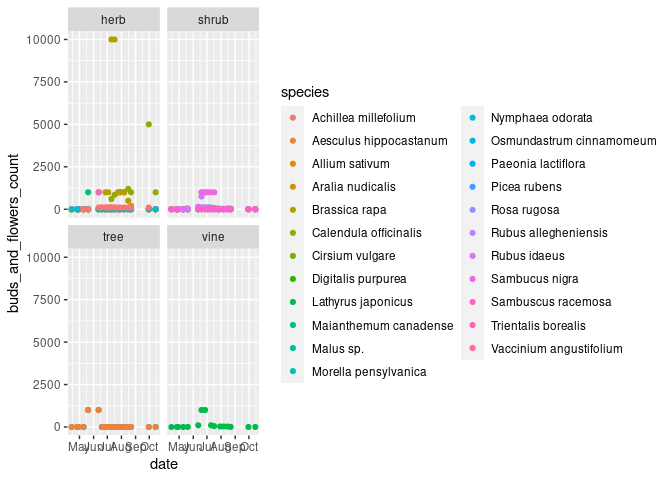
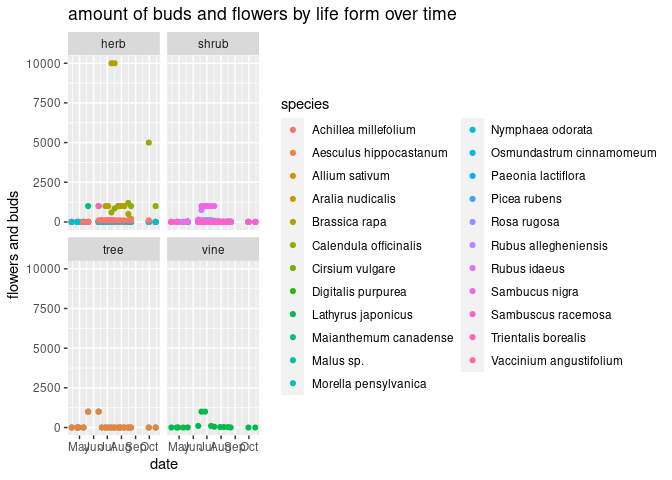
Add labs to primary graphs

diff --git a/proposal/proposal.md b/proposal/proposal.md
@@ -397,7 +397,9 @@ ggplot(mapping =
          aes(x = date, y = buds_and_flowers_count, color = species)) +
   geom_point() +
   # geom_density() +
-  facet_wrap(~ life_form)
+  facet_wrap(~ life_form) +
+  labs (y = "flowers and buds",
+        title = "amount of buds and flowers by life form over time")
 ```
 
 ![](proposal_files/figure-gfm/flowers_and_buds-1.png)<!-- -->
@@ -413,7 +415,8 @@ hurricane_plants %>%
     y = total_fruits)) +
  geom_point() +
   labs(x = "date",
-       y = "total fruits") +
+       y = "total fruits",
+       title = "cumulative fruits with seasonal progression") +
   geom_line()
 ```
 
